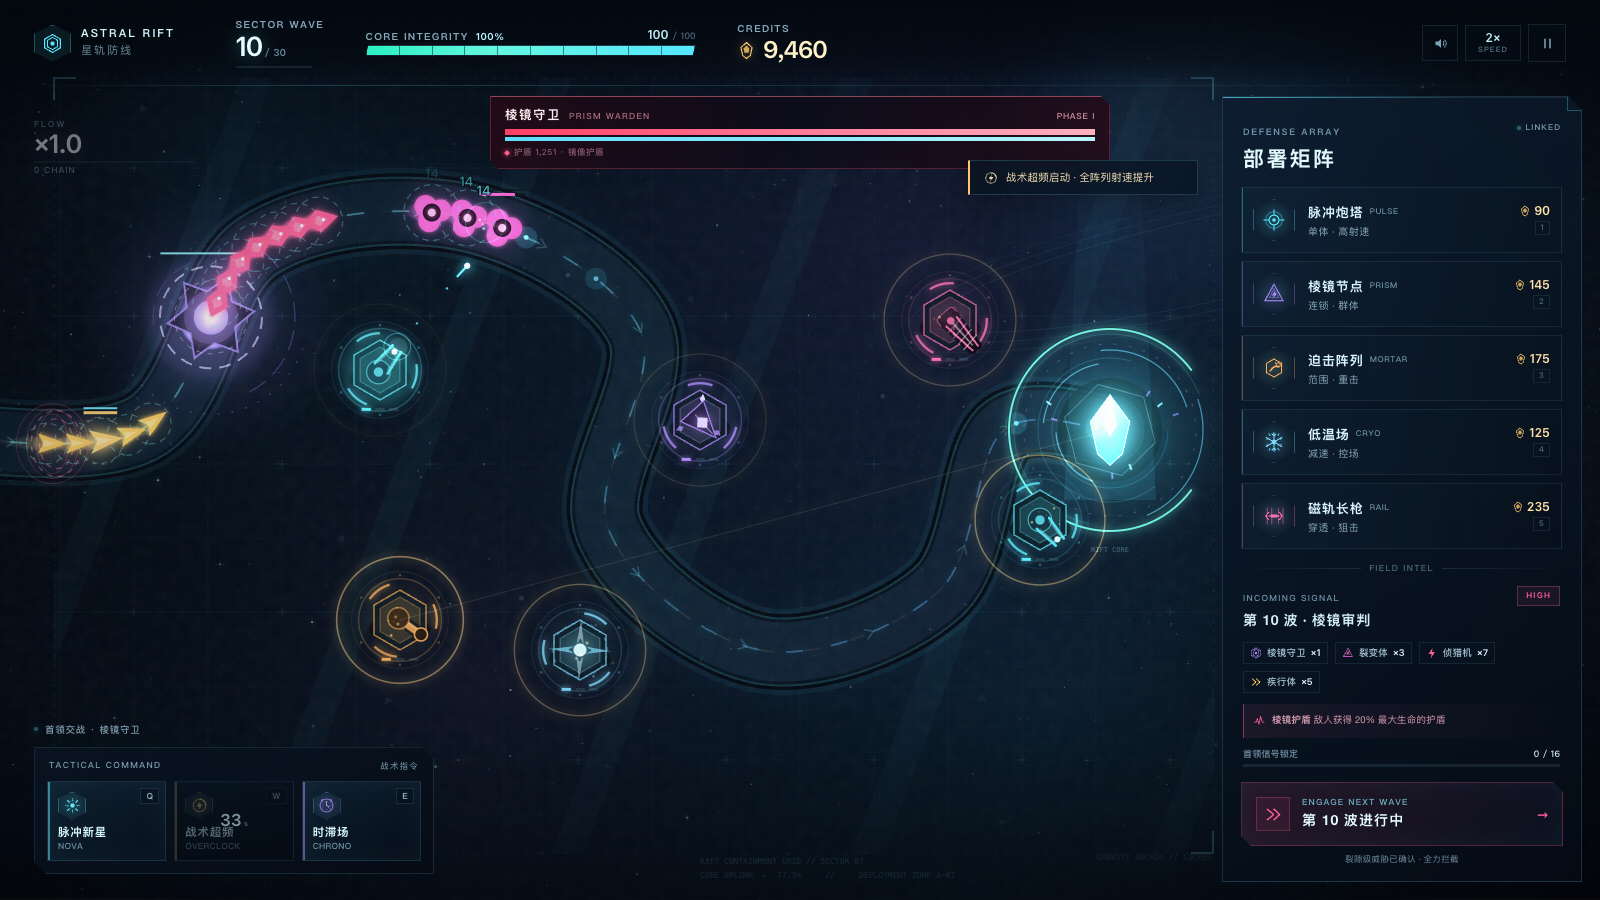
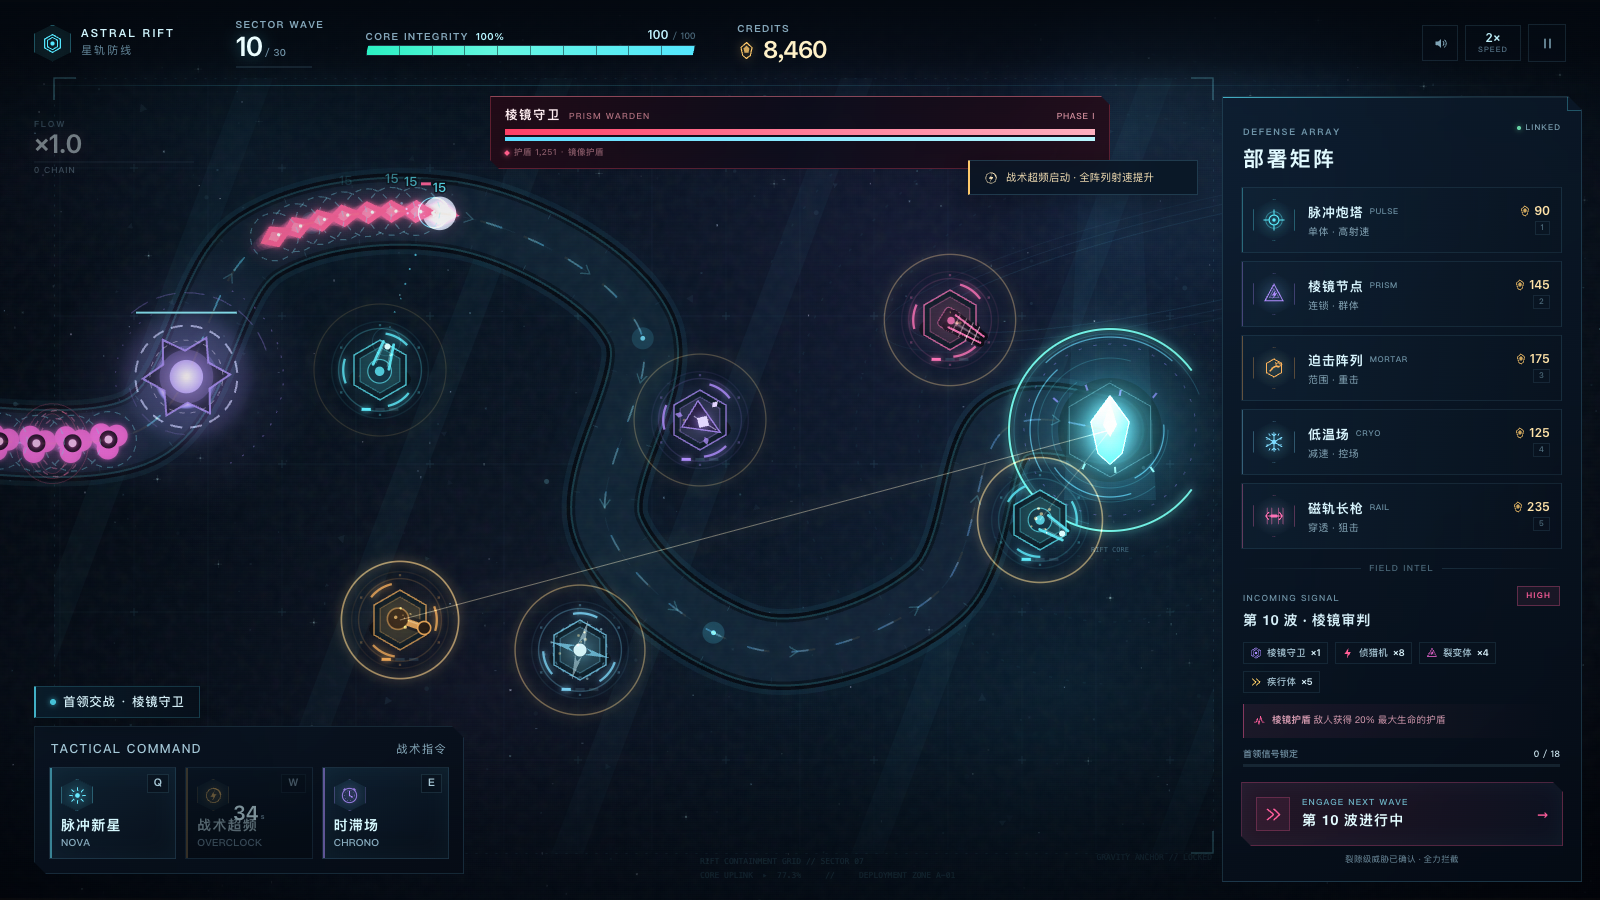
fix: 继续放大战术指令与状态栏字号

diff --git a/styles.css b/styles.css
@@ -1445,3 +1445,110 @@ svg{display:block;width:1em;height:1em}
   .ability-head span,.ability-head small{color:#7da0b2}
   .top-label{color:#86a8bb}
 }
+
+/* larger tactical command block + readable status line */
+@media (min-width:1101px){
+  .ability-dock{width:430px;padding:14px;bottom:26px}
+  .ability-head{padding:0 2px 10px}
+  .ability-head span{font-size:11px;letter-spacing:.1em;color:#96bfd0}
+  .ability-head small{font-size:10.5px;color:#7b9fb1;letter-spacing:.08em}
+  .ability-list{gap:9px}
+  .ability-btn{min-height:92px;padding:11px}
+  .ability-icon{width:32px;height:32px}
+  .ability-icon svg{width:19px;height:19px}
+  .ability-copy b{font-size:13px;letter-spacing:.06em}
+  .ability-copy small{font-size:9.5px;color:#89adbf}
+  .ability-key{font-size:10px;padding:3px 6px;color:#a6c7d6}
+  .ability-cd{font-size:20px}
+  .status-ribbon{
+    bottom:182px;min-height:29px;padding:8px 13px;display:inline-flex;
+    border:1px solid rgba(84,231,255,.17);border-left:2px solid rgba(84,231,255,.75);
+    background:linear-gradient(90deg,rgba(10,30,45,.82),rgba(6,15,26,.58));
+    font-size:11.5px;line-height:1;letter-spacing:.03em;color:#c2e4ef;
+    box-shadow:0 8px 25px rgba(0,0,0,.22);backdrop-filter:blur(8px);
+  }
+  .status-dot{width:6px;height:6px}
+  .hint-card{bottom:224px}
+}
+
+@media (min-width:901px) and (max-width:1100px){
+  .ability-dock{width:380px;padding:12px;bottom:20px}
+  .ability-head{padding-bottom:8px}
+  .ability-head span{font-size:10px;color:#96bfd0}
+  .ability-head small{font-size:9.5px;color:#7b9fb1}
+  .ability-list{gap:7px}
+  .ability-btn{min-height:80px;padding:9px}
+  .ability-icon{width:28px;height:28px}
+  .ability-copy b{font-size:11.5px}
+  .ability-copy small{font-size:8.5px;color:#89adbf}
+  .ability-key{font-size:9px;padding:2px 5px}
+  .ability-cd{font-size:18px}
+  .status-ribbon{
+    bottom:154px;min-height:27px;padding:7px 11px;display:inline-flex;
+    border:1px solid rgba(84,231,255,.16);border-left:2px solid rgba(84,231,255,.7);
+    background:linear-gradient(90deg,rgba(10,30,45,.82),rgba(6,15,26,.58));
+    font-size:10.5px;letter-spacing:.02em;color:#c2e4ef;
+  }
+  .status-dot{width:5px;height:5px}
+  .hint-card{bottom:192px}
+}
+
+@media (max-width:900px){
+  .ability-dock{width:310px;padding:10px;bottom:16px}
+  .ability-head{padding-bottom:7px}
+  .ability-head span{font-size:9px;color:#96bfd0}
+  .ability-head small{font-size:8.5px;color:#7b9fb1}
+  .ability-list{gap:6px}
+  .ability-btn{min-height:70px;padding:8px}
+  .ability-icon{width:25px;height:25px}
+  .ability-copy b{font-size:10.5px}
+  .ability-key{font-size:8.5px}
+  .ability-cd{font-size:17px}
+  .status-ribbon{
+    bottom:128px;min-height:25px;padding:6px 10px;display:inline-flex;
+    border:1px solid rgba(84,231,255,.16);border-left:2px solid rgba(84,231,255,.7);
+    background:linear-gradient(90deg,rgba(10,30,45,.82),rgba(6,15,26,.58));
+    font-size:10px;letter-spacing:.02em;color:#c2e4ef;
+  }
+  .hint-card{bottom:162px}
+}
+
+@media (max-width:720px){
+  .ability-dock{width:270px;bottom:12px;padding:8px}
+  .ability-btn{min-height:60px;padding:7px}
+  .ability-copy b{font-size:9.5px}
+  .ability-cd{font-size:15px}
+  .status-ribbon{display:none}
+  .hint-card{bottom:122px}
+}
+
+/* final emphasis on the requested tactical/status area */
+@media (min-width:1101px){
+  .ability-head span{font-size:12px;color:#a7cbda}
+  .ability-head small{font-size:11.5px;color:#8aadbe}
+  .ability-copy b{font-size:14px}
+  .ability-copy small{font-size:10px}
+  .ability-key{font-size:10.5px}
+  .status-ribbon{bottom:182px;min-height:31px;padding:9px 14px;font-size:12.5px;color:#d2edf5}
+  .hint-card{bottom:228px}
+}
+@media (min-width:901px) and (max-width:1100px){
+  .ability-head span{font-size:11px}
+  .ability-head small{font-size:10.5px}
+  .ability-copy b{font-size:12.5px}
+  .ability-copy small{font-size:9px}
+  .ability-key{font-size:9.5px}
+  .status-ribbon{bottom:154px;min-height:28px;padding:8px 12px;font-size:11.5px}
+  .hint-card{bottom:192px}
+}
+@media (max-width:900px){
+  .ability-head span{font-size:9.5px}
+  .ability-head small{font-size:9px}
+  .ability-copy b{font-size:11px}
+  .status-ribbon{font-size:10.5px;min-height:26px;padding:7px 11px}
+}
+
+@media (min-width:901px) and (max-width:1100px){
+  .status-ribbon{bottom:162px}
+  .hint-card{bottom:200px}
+}
